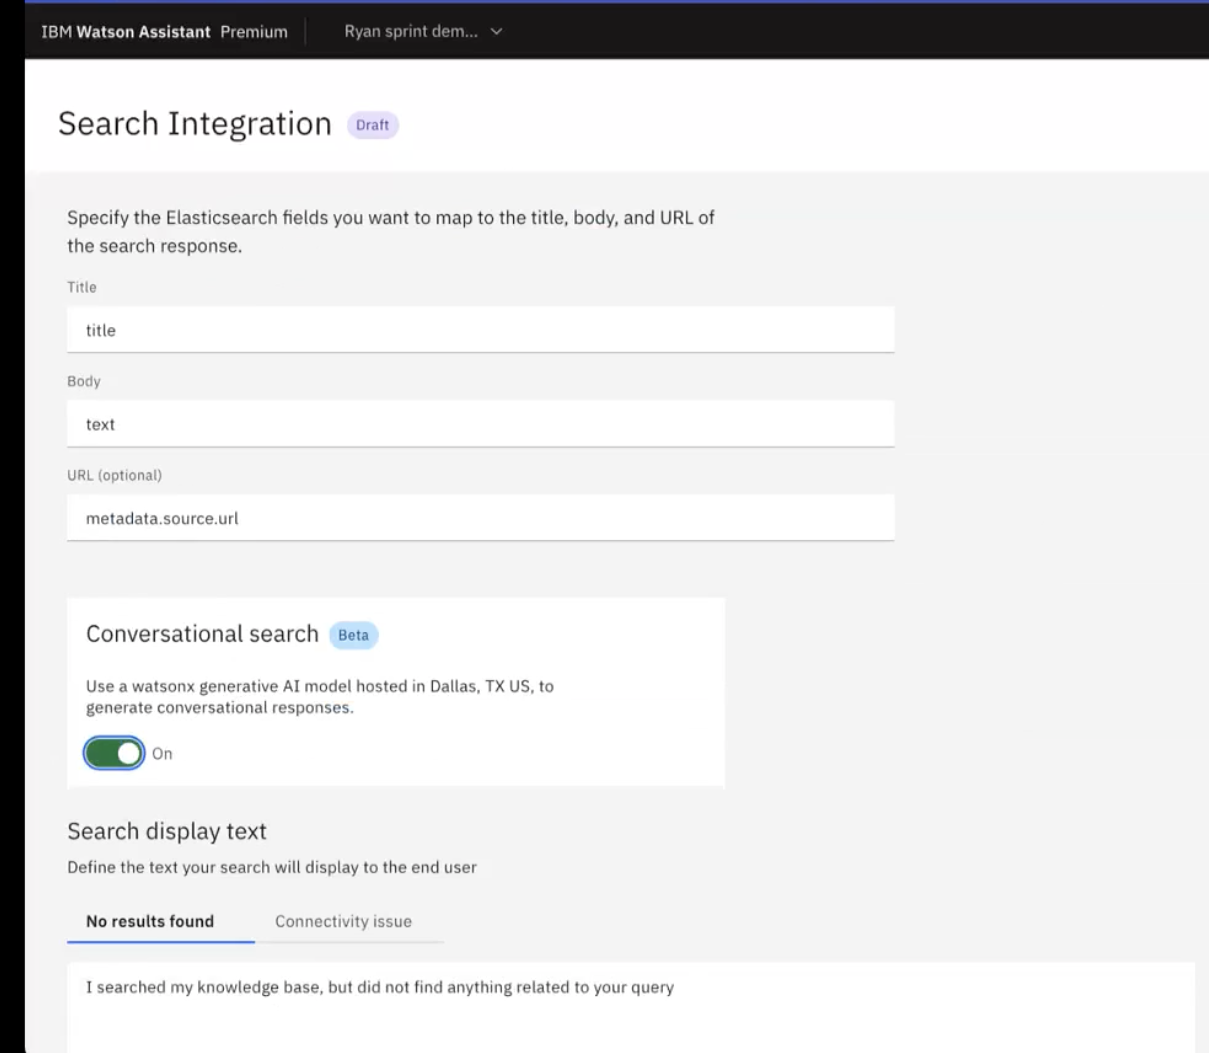
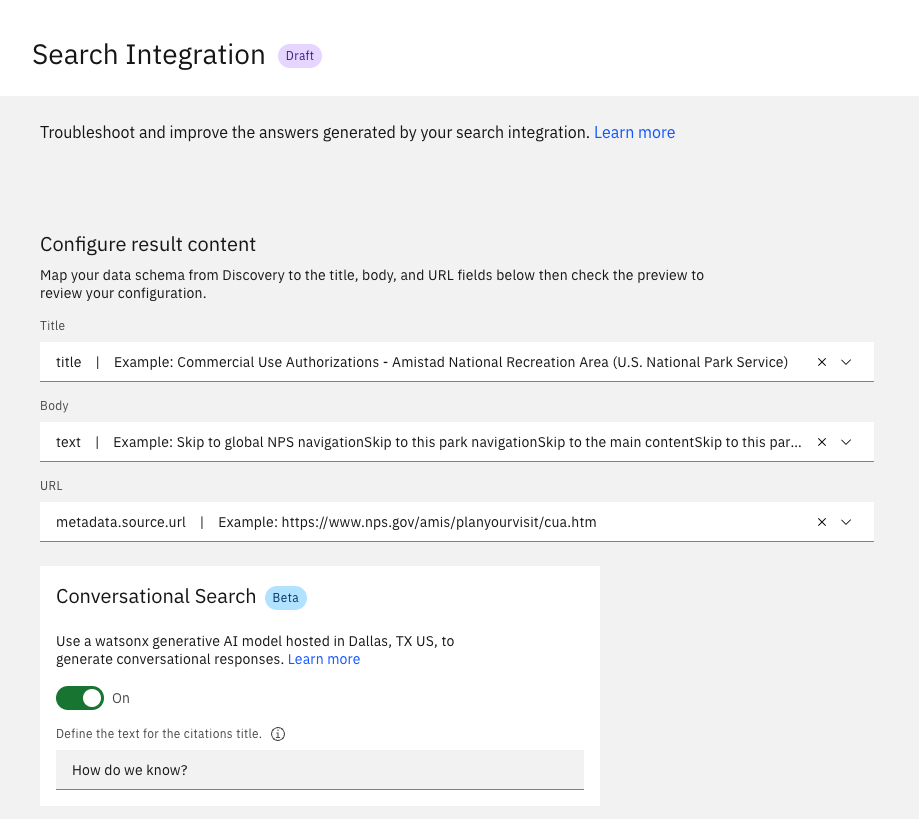
Carl-Francis: Update conversational-search.md

diff --git a/conversational-search.md b/conversational-search.md
@@ -2,7 +2,7 @@
 
 copyright:
   years: 2015, 2024
-lastupdated: "2024-01-24"
+lastupdated: "2024-02-05"
 
 keywords: conversational search
 
@@ -17,6 +17,8 @@ subcollection: watson-assistant
 
 [Plus]{: tag-green}[Beta]{: tag-cyan}
 
+Use *Conversational search* with the {{site.data.keyword.discoveryfull}} search integration or Elasticsearch search integration to help your assistant extract an answer from the highest-ranked query results and return a text response to the user.
+{: shortdesc}
 
 When you enable this feature, search results are provided to an IBM watsonx generative AI model that produces a conversational reply to a user's question. 
 
@@ -27,7 +29,41 @@ By default, assistants in all regions except `Frankfurt` use the model from the 
 
 To use conversational search, you must have a Plus or Enterprise plan and enroll in the early access program with this [signup form](https://form.asana.com/?k=U0gIIpwhM2_LY8r8LC_qDw&d=8612789739828){: external}.
 
+Refer to the following topics to configure Conversational search in your assistant:
 
+- [Before you begin](#conversational-search-requirements)
+- [Enable conversational search](#conversational-search-setup)
+- [Test Conversational search](#conversational-search-test)
+
+## Before you begin
+{: #conversational-search-requirements}
+
+You must configure the search integration to enable the conversational search feature. For more information about configuring {{site.data.keyword.discoveryfull}} search integration, see [{{site.data.keyword.discoveryshort}} search integration setup](/docs/watson-assistant?topic=watson-assistant-search-add). For more information about configuring Elasticsearch integration, see [Elasticsearch search integration setup](/docs/watson-assistant?topic=watson-assistant-search-elasticsearch-add).
+
+## Enable conversational search 
+{: #conversational-search-setup}
+
+You can enable **Conversational search** in the `Search Integration` window, by switching the conversational search toggle to `On`. After enabling the Conversational search, click `Save`. 
+
+ ![ConversationalSearch](images/convo-search-toggle-on.png) 
+
+ For more information about configuring {{site.data.keyword.discoveryshort}}, see [Discovery configure](/docs/watson-assistant?topic=watson-assistant-search-add#search-add-configure). For more information about configuring Elasticsearch, see [Elasticsearch configure](/docs/watson-assistant?topic=watson-assistant-search-elasticsearch-add#setup-elasticsearch).
+
+
+## Test Conversational search
+{: #conversational-search-test}
+
+You can test Conversational search in actions preview, the preview page, or by using the preview link.
+
+In this example, the user asks, `Tell me about a custom extension`.
+Search results are pulled from your knowledge base when conversational search is `off`. In this case, the answer is returned as a list of cards that are relevant to custom extensions.
+  
+   ![ConversationalSearchAnswer](images/elasticsearch-answer.png)
+
+When Conversational search is `On`, the same search results are pulled from your knowledge base. This time these results are passed to an IBM watsonx generative AI model. This model produces a conversational reply to the user's question, in the form of a text response about custom extensions.
+
+   ![ConversationalSearchQuestion](images/elasticsearch-question.png)
+  
 
 
 
